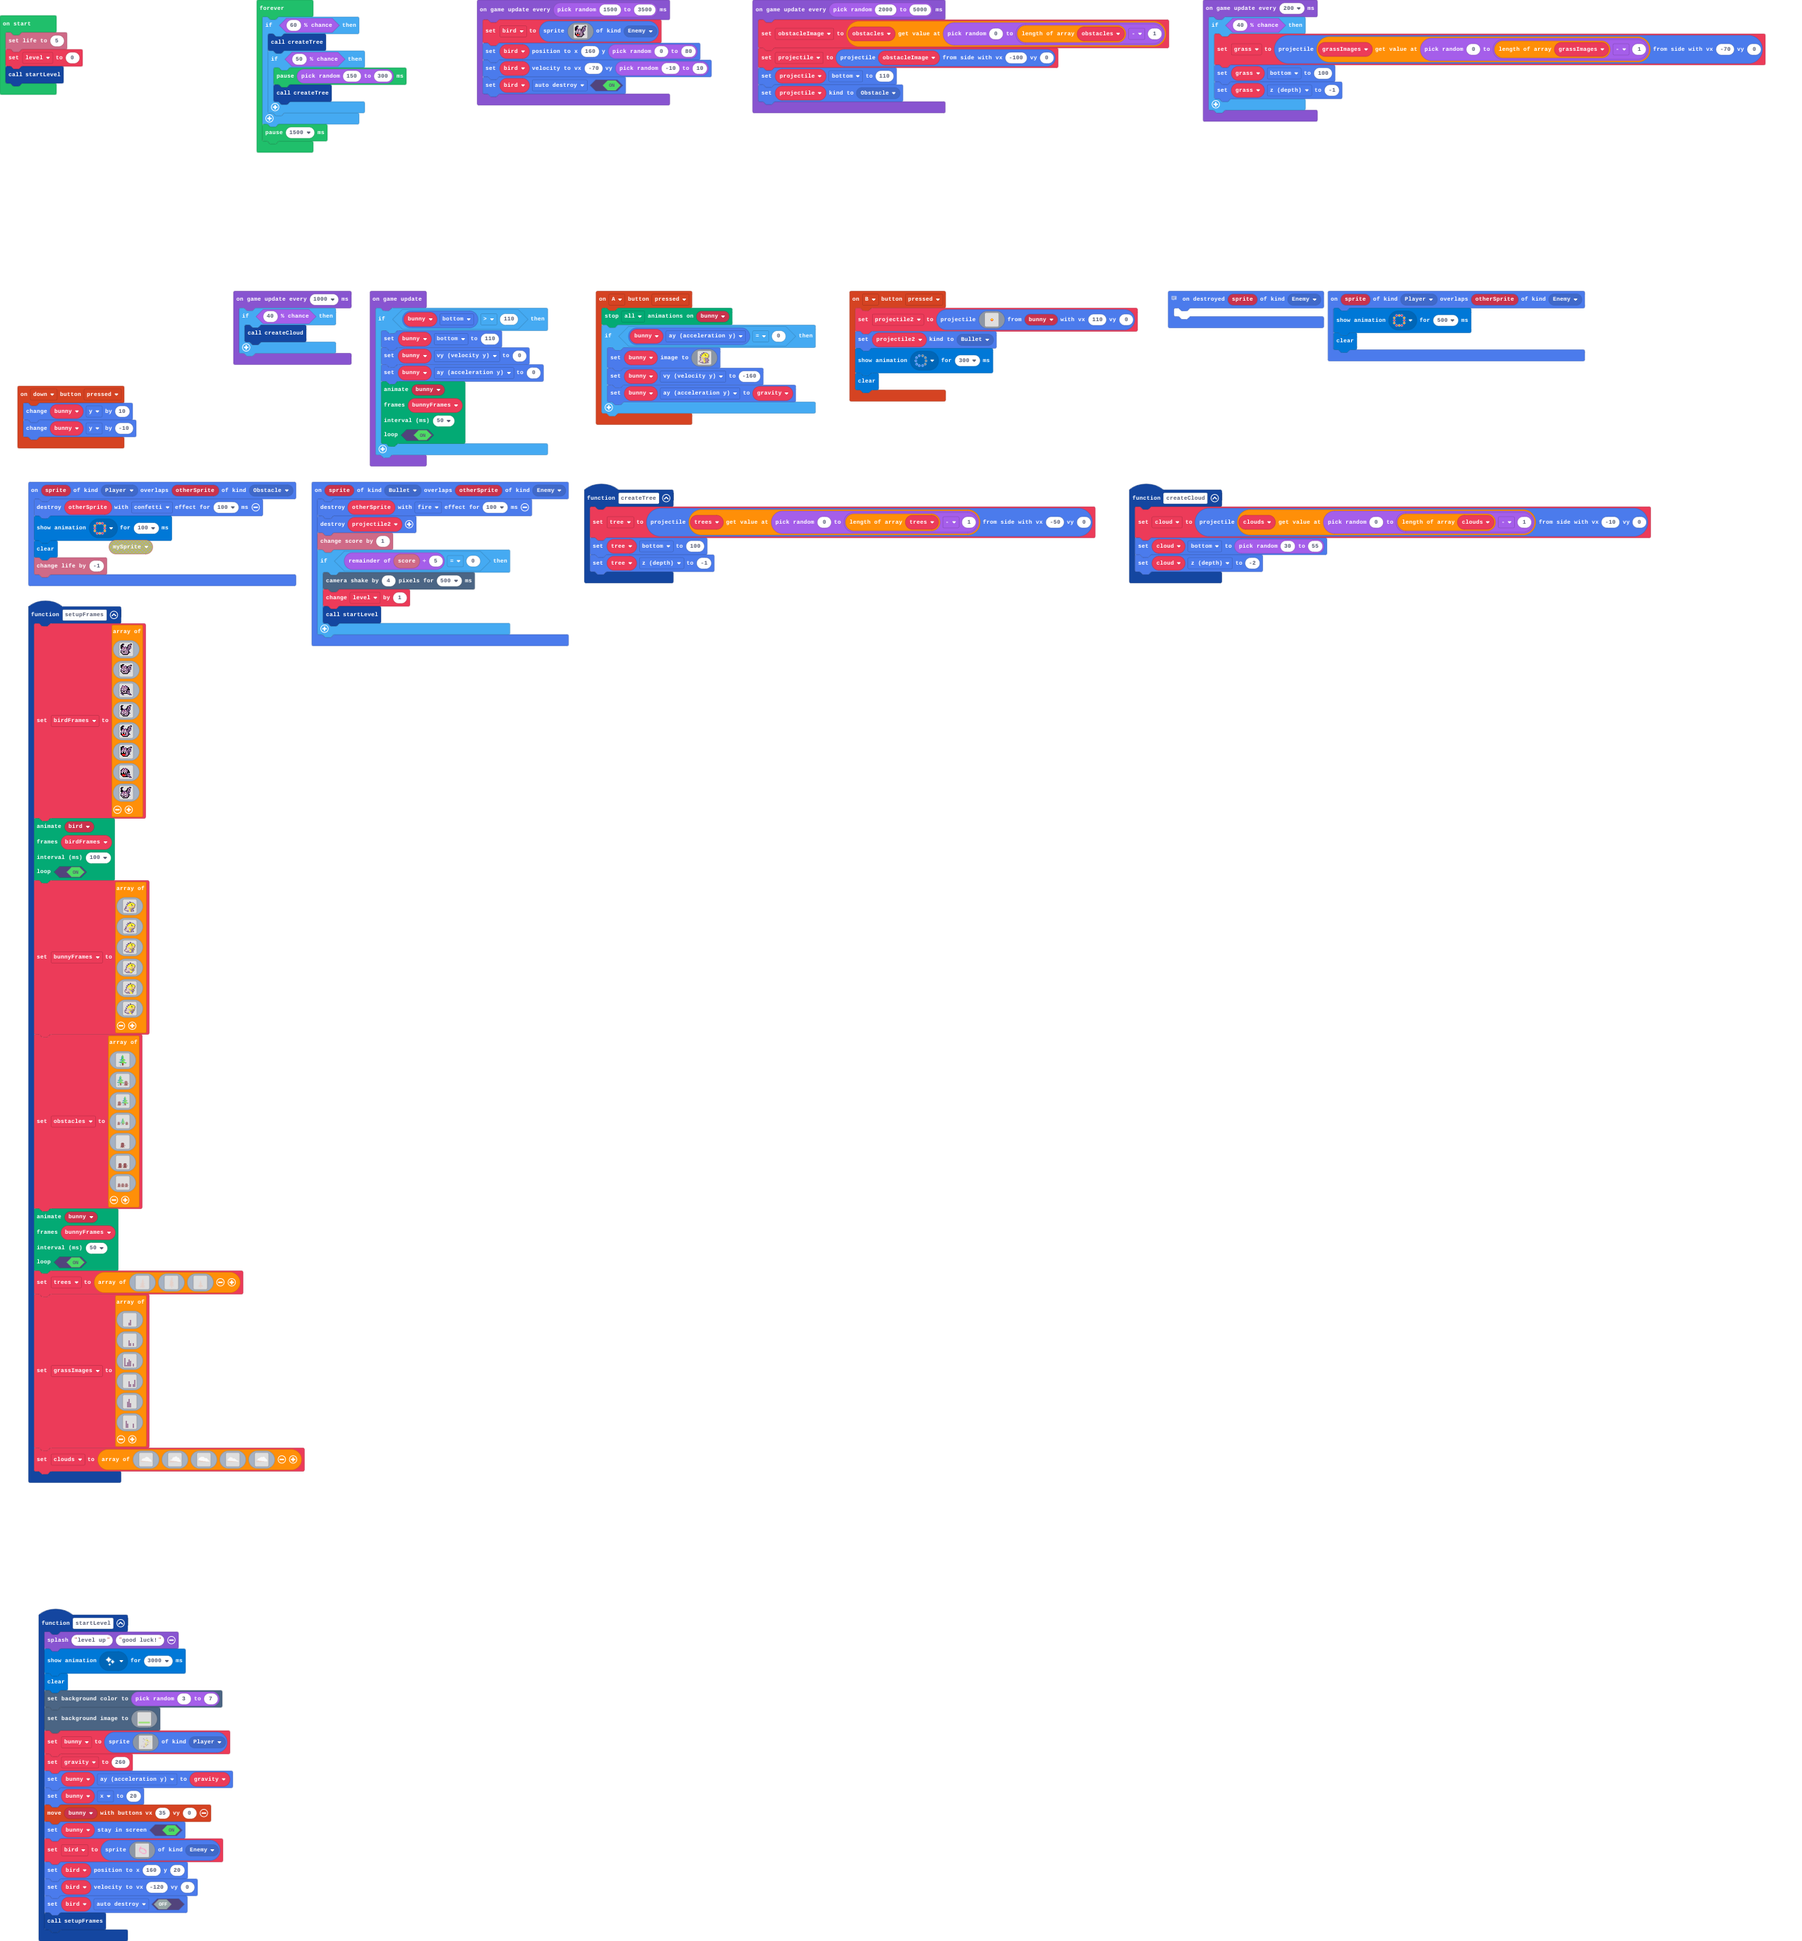
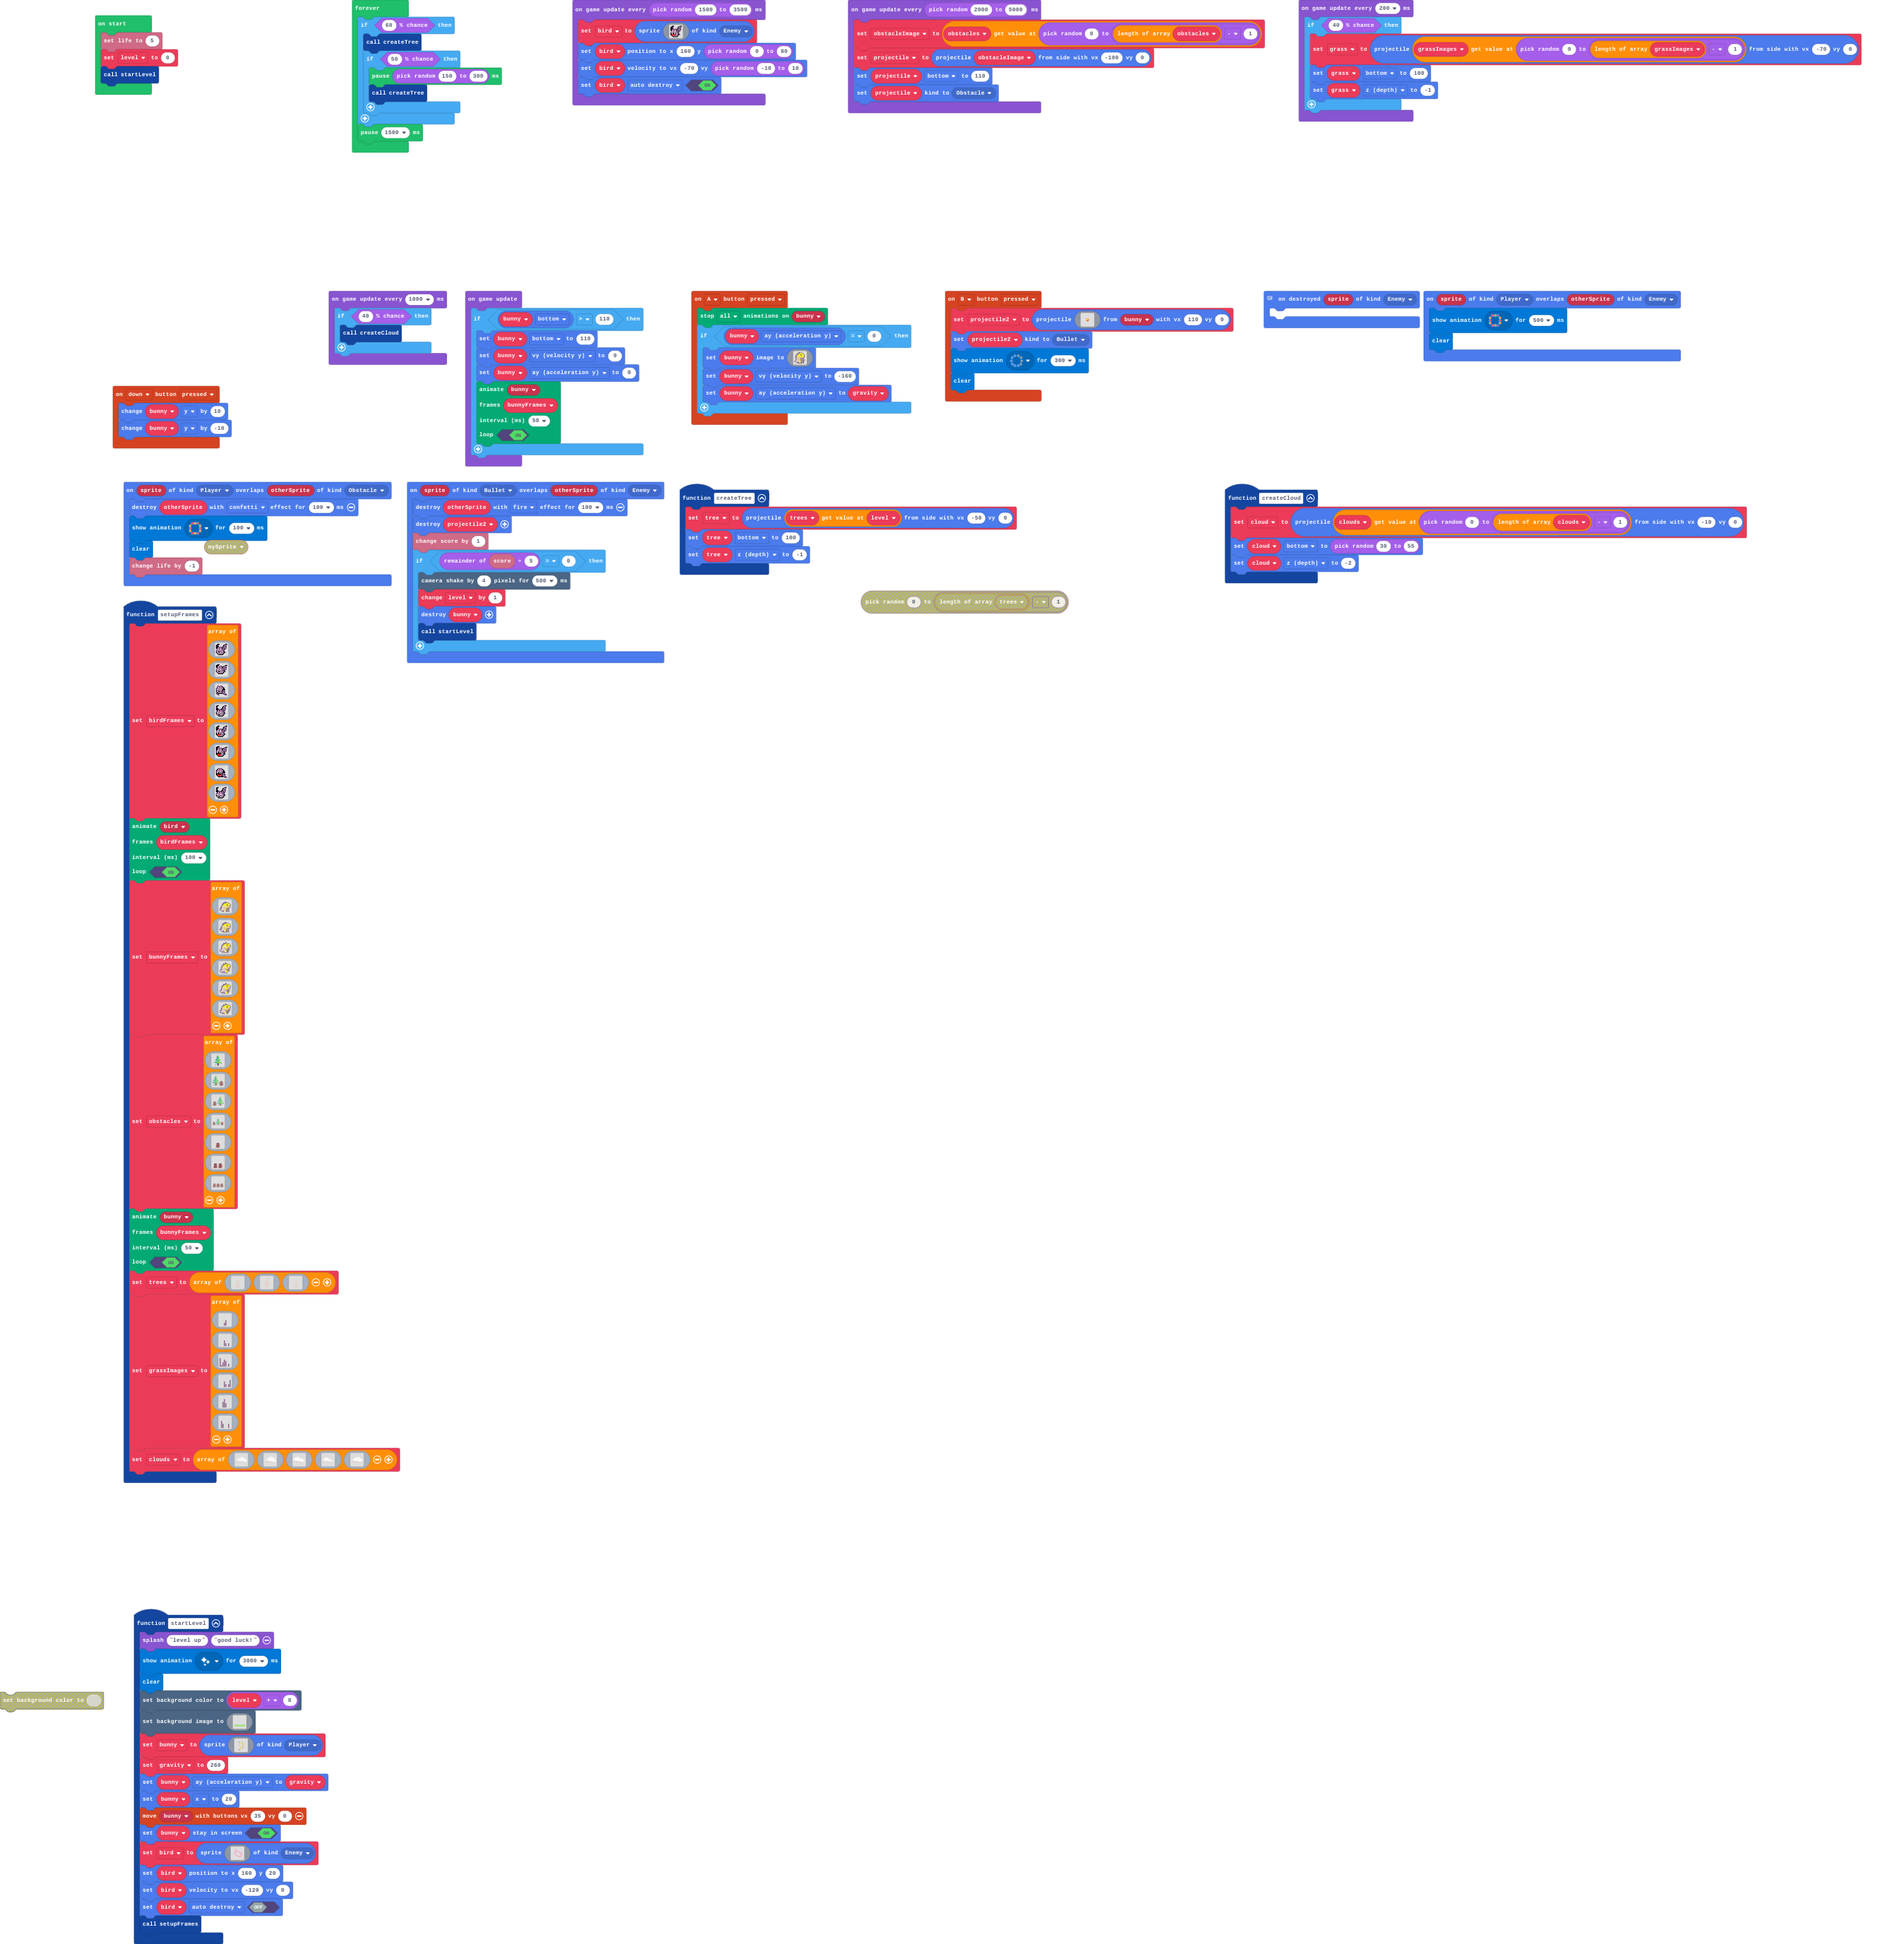
level working better

diff --git a/main.ts b/main.ts
@@ -38,6 +38,7 @@ sprites.onOverlap(SpriteKind.Bullet, SpriteKind.Enemy, function (sprite, otherSp
     if (info.score() % 5 == 0) {
         scene.cameraShake(4, 500)
         level += 1
+        bunny.destroy()
         startLevel()
     }
 })
@@ -976,7 +977,7 @@ function startLevel () {
     game.splash("level up", "good luck!")
     light.showAnimation(light.sparkleAnimation, 3000)
     light.clear()
-    scene.setBackgroundColor(randint(3, 7))
+    scene.setBackgroundColor(level + 8)
     scene.setBackgroundImage(img`
         ................................................................................................................................................................
         ................................................................................................................................................................
@@ -1154,7 +1155,7 @@ function startLevel () {
     setupFrames()
 }
 function createTree () {
-    tree = sprites.createProjectileFromSide(trees[randint(0, trees.length - 1)], -50, 0)
+    tree = sprites.createProjectileFromSide(trees[level], -50, 0)
     tree.bottom = 100
     tree.z = -1
 }
@@ -1177,8 +1178,9 @@ let cloud: Sprite = null
 let gravity = 0
 let bunny: Sprite = null
 let projectile2: Sprite = null
-info.setLife(5)
 let level = 0
+info.setLife(5)
+level = 0
 startLevel()
 game.onUpdate(function () {
     if (bunny.bottom > 110) {
